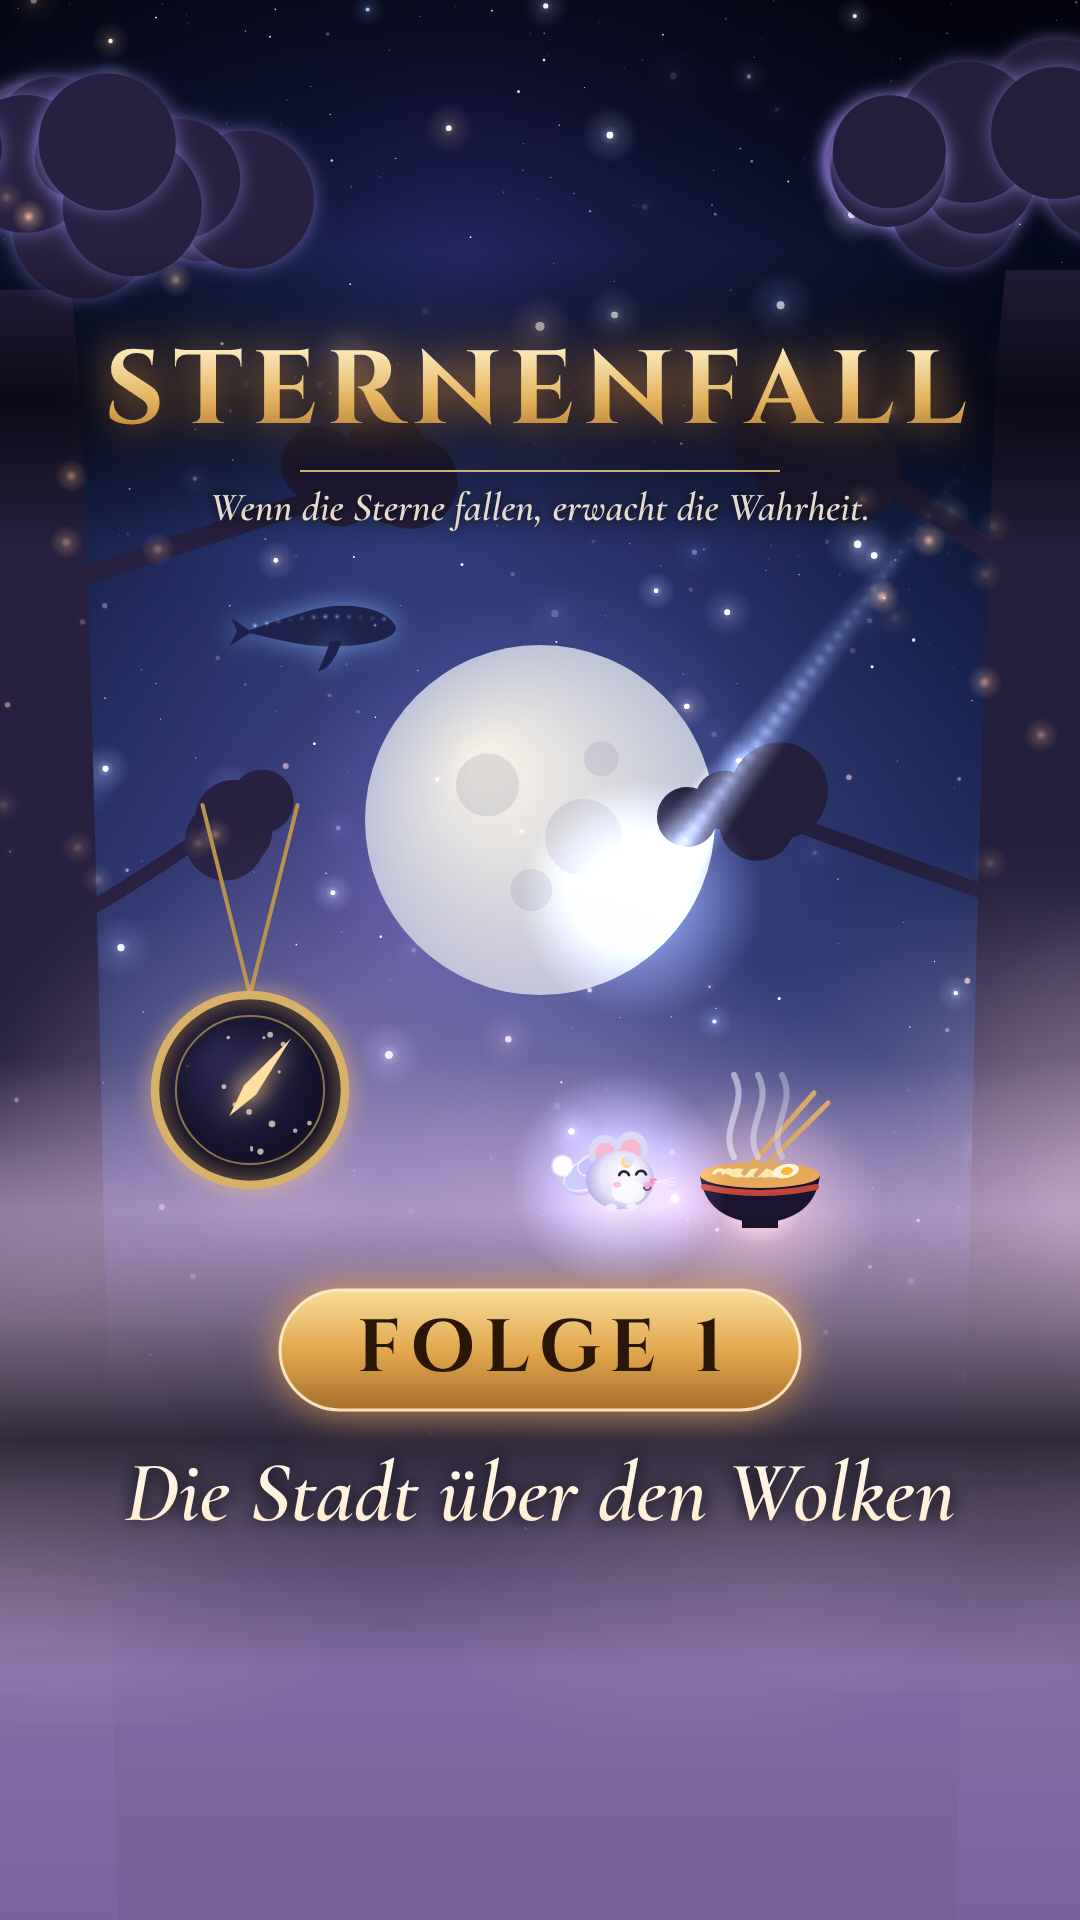
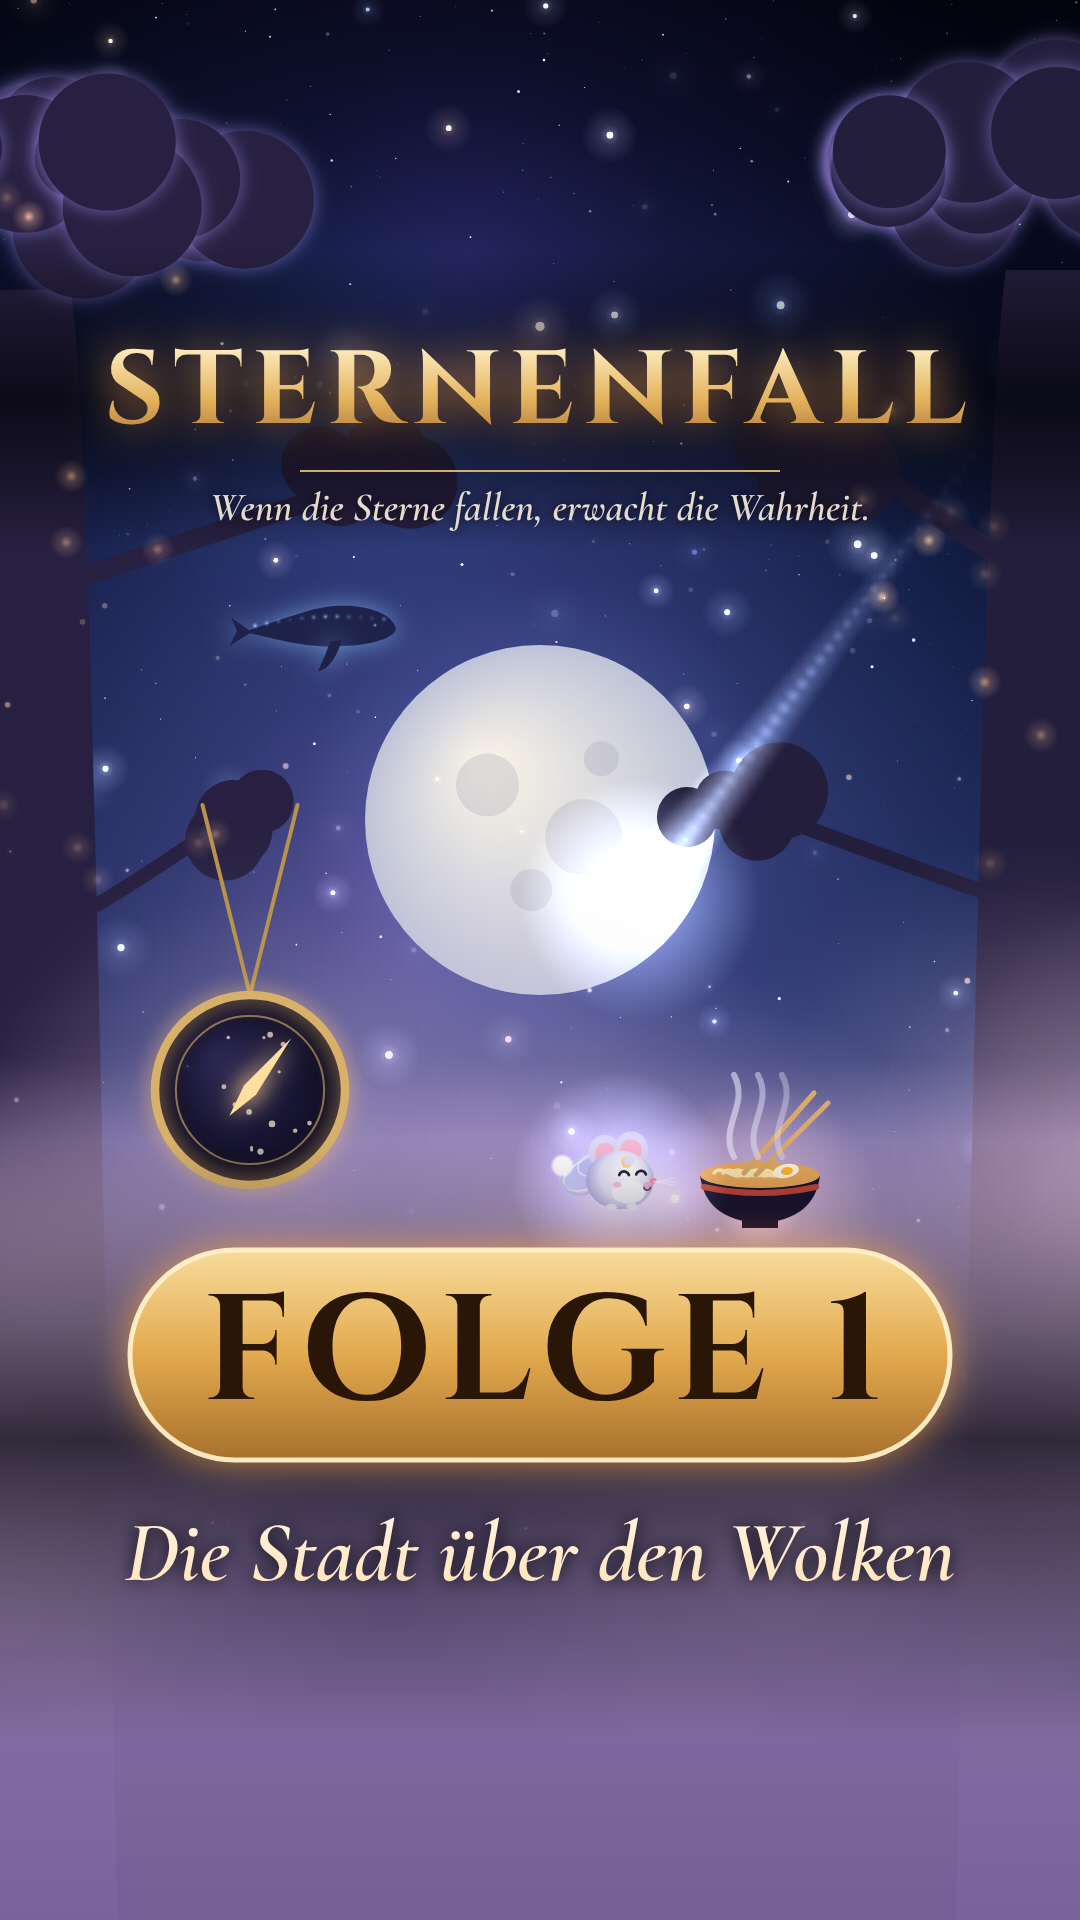
Sternenfall: Thumbnail mit großem 'FOLGE 1'-Band, Beschreibung an neuen Prolog angepasst
Claude-Session: https://claude.ai/code/session_01McNdgartso3nbaZ6x41dY1

Changed region(s): [[0.0, 0.5938, 1.0, 0.875]]

diff --git a/stories/branding/thumbnail.js b/stories/branding/thumbnail.js
@@ -58,7 +58,7 @@ const name = path.basename(storyPath, '.json');
     particles(t, 40, { y0: 1500, dy: -1100, a: 0.5, color: 'rgba(255,200,140,A)', r: 2, life: 9, glowR: 6 });
     // soft darkening behind the text blocks
     const shade = (y, h) => { const g = c.createLinearGradient(0, y - h, 0, y + h); g.addColorStop(0, 'rgba(0,0,0,0)'); g.addColorStop(0.5, 'rgba(2,3,12,0.75)'); g.addColorStop(1, 'rgba(0,0,0,0)'); c.fillStyle = g; c.fillRect(0, y - h, 1080, 2 * h); };
-    shade(400, 150); shade(1440, 230);
+    shade(400, 150); shade(1440, 300);
     // --- identical text layout for every episode
     titleText(540, 400, 104, 1, 1);
     c.save(); c.textAlign = 'center';
@@ -67,22 +67,22 @@ const name = path.basename(storyPath, '.json');
     c.shadowColor = 'rgba(0,0,0,0.9)'; c.shadowBlur = 12;
     c.fillText(st.tagline || '', 540, 520);
     // gold band with the episode number
-    const bw = 520, by0 = 1290;
-    const bg = c.createLinearGradient(0, by0, 0, by0 + 120);
+    const bw = 820, bh = 210, by0 = 1250;
+    const bg = c.createLinearGradient(0, by0, 0, by0 + bh);
     bg.addColorStop(0, '#f7dc9b'); bg.addColorStop(0.5, '#e2a94e'); bg.addColorStop(1, '#a8702c');
     c.shadowColor = 'rgba(255,170,70,0.8)'; c.shadowBlur = 40;
-    c.fillStyle = bg; c.beginPath(); c.roundRect(540 - bw / 2, by0, bw, 120, 60); c.fill();
-    c.shadowBlur = 0; c.strokeStyle = 'rgba(255,240,200,0.9)'; c.lineWidth = 3; c.stroke();
+    c.fillStyle = bg; c.beginPath(); c.roundRect(540 - bw / 2, by0, bw, bh, bh / 2); c.fill();
+    c.shadowBlur = 0; c.strokeStyle = 'rgba(255,240,200,0.95)'; c.lineWidth = 5; c.stroke();
     if (c.letterSpacing !== undefined) c.letterSpacing = '10px';
-    c.font = '700 74px Cinzel'; c.fillStyle = '#2a1606'; c.textBaseline = 'middle';
-    c.fillText((st.folge || '').toUpperCase(), 545, by0 + 64);
+    c.font = '700 150px Cinzel'; c.fillStyle = '#2a1606'; c.textBaseline = 'middle';
+    c.fillText((st.folge || '').toUpperCase(), 548, by0 + bh / 2 + 10);
     if (c.letterSpacing !== undefined) c.letterSpacing = '0px';
     // episode title
     c.textBaseline = 'alphabetic'; c.font = 'italic 700 86px "Cormorant Garamond"';
     c.shadowColor = 'rgba(0,0,0,0.95)'; c.shadowBlur = 18;
-    const tg = c.createLinearGradient(0, 1480, 0, 1640); tg.addColorStop(0, '#fff6e6'); tg.addColorStop(1, '#ffd79a');
+    const tg = c.createLinearGradient(0, 1500, 0, 1660); tg.addColorStop(0, '#fff6e6'); tg.addColorStop(1, '#ffd79a');
     c.fillStyle = tg;
-    wrap(st.titel || '', 940).forEach((ln, i) => c.fillText(ln, 540, 1520 + i * 92));
+    wrap(st.titel || '', 940).forEach((ln, i) => c.fillText(ln, 540, 1580 + i * 92));
     c.restore();
     return document.getElementById('c').toDataURL('image/png');
   }, story);

diff --git a/stories/branding/beschreibung_folge01.md b/stories/branding/beschreibung_folge01.md
@@ -2,18 +2,18 @@
 
 **Beschreibung (zum Kopieren):**
 
-Ich habe mich in einen Stern verliebt. ⭐❤ Und keiner hat mich gewarnt, was das kostet …
-Folge 1/20 von STERNENFALL – willkommen in Valdoria, der Stadt über den Wolken. 🌙🏮
-Was glaubst du: Wer oder was ist wirklich in den Sternen gefangen? 👇
-Folge 2 kommt bald – folg mir, damit du sie zuerst siehst.
+Hast du dich schon mal in einen Stern verliebt? ⭐❤ Ich schon. Leider.
+Folge 1/20 von STERNENFALL 🌙 Valdoria – eine Stadt über den Wolken, in der jeder fallende Stern dem Orden gehört … und wer ihn berührt, stirbt.
+Würdest du ihn anfassen? 👇 Ja oder nein?
+Teil 2 kommt bald – folg mir, damit du ihn nicht verpasst.
 
-#sternenfall #valdoria #fantasy #storytime #animation #serie #fantasyserie #lovestory #fyp #fürdich #deutsch
+#sternenfall #valdoria #fantasy #storytime #animation #serie #fantasyserie #lovestory #slowburn #fyp #fürdich #foryou #deutsch
 
 **Angepinnter Kommentar:**
 Lunara hat inzwischen ihre vierte Nudel geklaut. Bo weiß es noch nicht. 🍜🐭
 
 **Tipps fürs Posten:**
 - Cover: `branding/thumbs/folge01.png` als Titelbild wählen.
-- Die Frage am Ende der Beschreibung lädt zu Kommentaren ein, und Kommentare pushen die Reichweite.
-- Abends posten (18–21 Uhr), in den ersten 30 Minuten auf Kommentare antworten.
-- Video in eine Playlist „Sternenfall“ legen, damit Zuschauer direkt zur nächsten Folge springen.
+- Die Ja/Nein-Frage ist bewusst leicht zu beantworten, das bringt viele Kommentare.
+- Abends posten (18–21 Uhr) und in den ersten 30 Minuten auf Kommentare antworten.
+- Alle Folgen in eine Playlist „Sternenfall“ legen.
